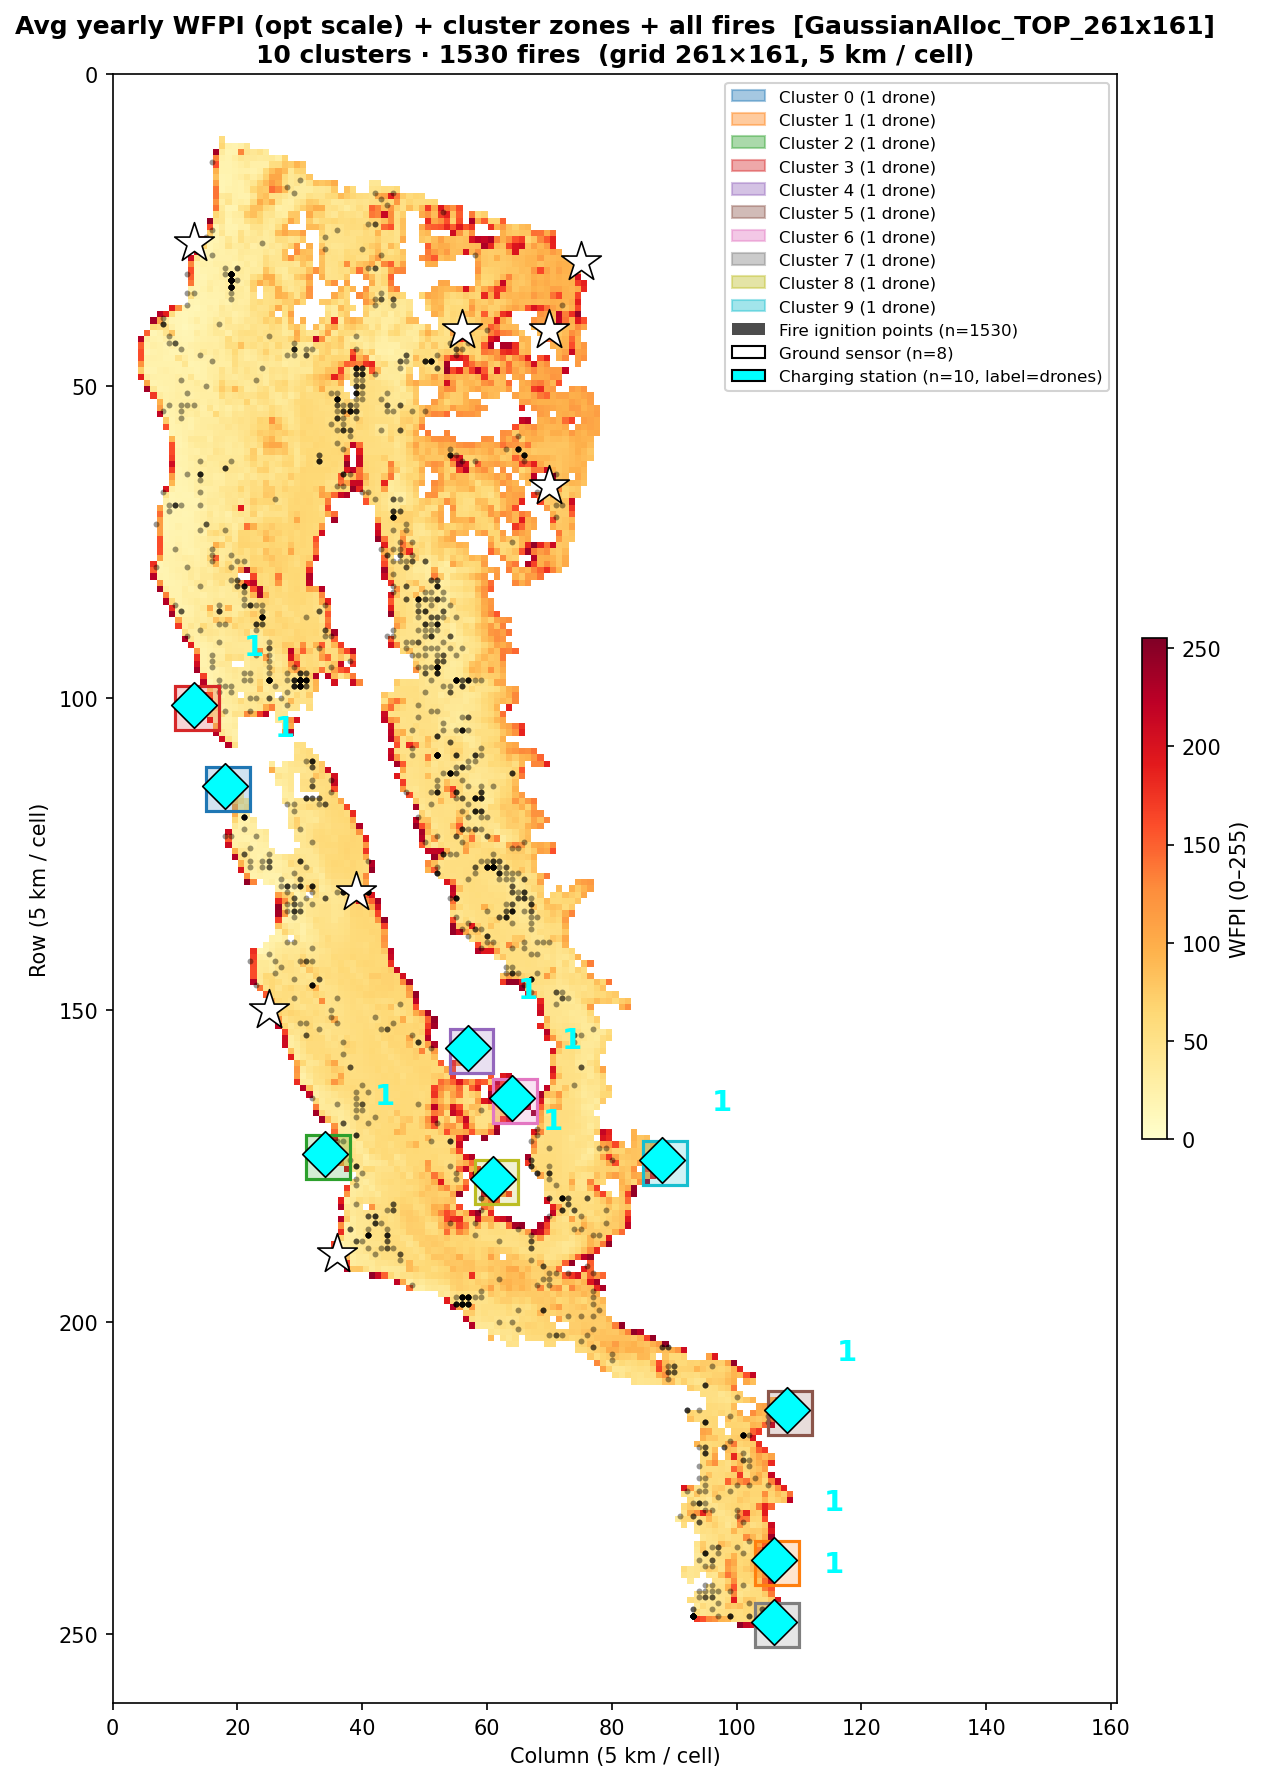
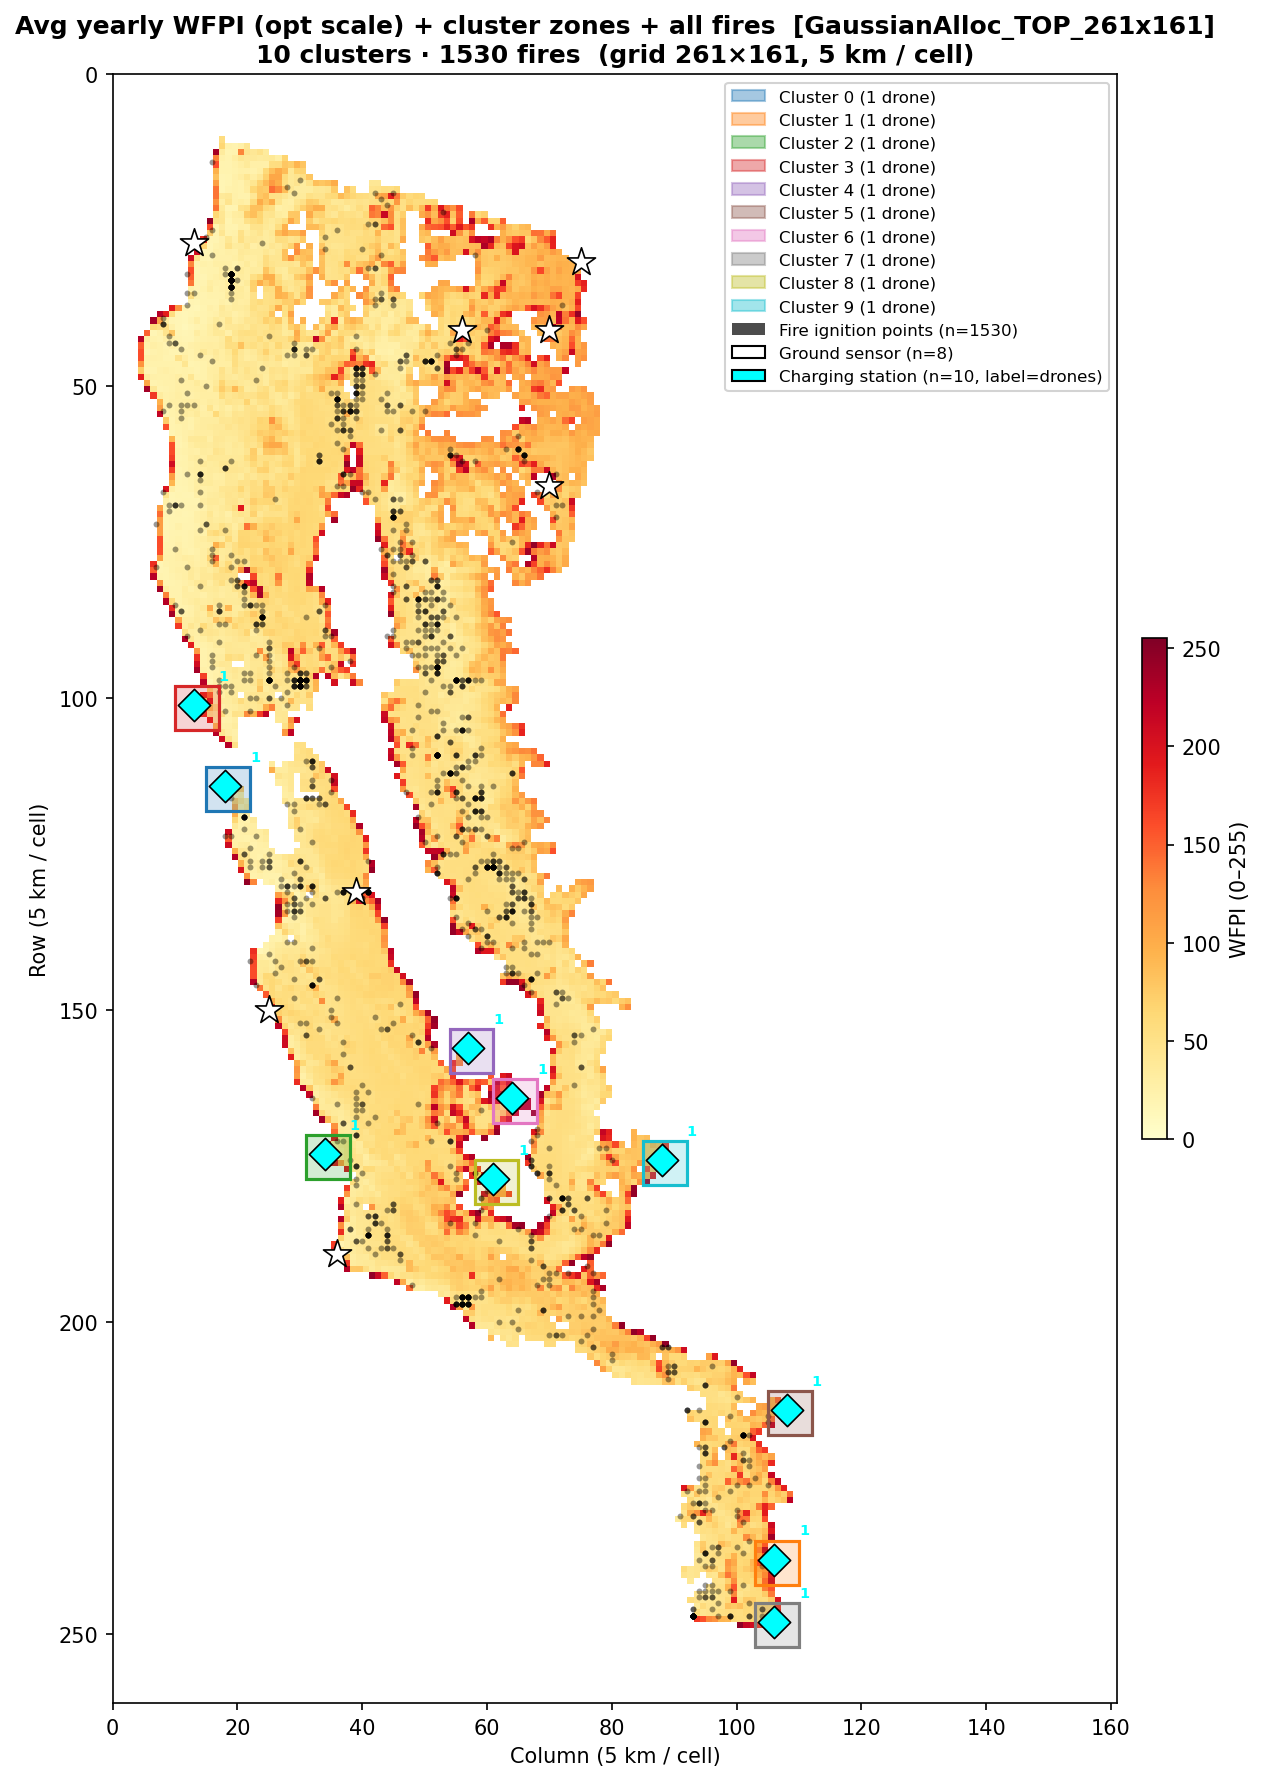
Halve sensor/station marker sizes for cleaner plots
data scale: marker_scale 1.0 → 0.5 (s=100 stars, s=60 diamonds)
opt scale:  marker_scale 2.0 → 1.0 (back to base sizes, proportionate
            to the coarser grid resolution)

diff --git a/visualize_sensor_placement.py b/visualize_sensor_placement.py
@@ -331,7 +331,7 @@ def main():
         )
         leg = []
         add_sensors_and_stations(ax, ground_locs_data, charging_locs_data,
-                                  drones_per_station, leg)
+                                  drones_per_station, leg, marker_scale=0.5)
         render_and_save(fig, ax, H, W,
                         PROJECT_ROOT / "california_sensor_placement.png", leg)
 
@@ -347,7 +347,7 @@ def main():
         add_cluster_boxes(ax, clusters, H, W, scale=COVERAGE_W, legend_items=leg)
         add_fires(ax, fire_rows_data, fire_cols_data, leg, s=10, alpha=0.5, color="black")
         add_sensors_and_stations(ax, ground_locs_data, charging_locs_data,
-                                  drones_per_station, leg)
+                                  drones_per_station, leg, marker_scale=0.5)
         render_and_save(fig, ax, H, W,
                         PROJECT_ROOT / "california_sensor_clusters.png", leg)
 
@@ -368,7 +368,7 @@ def main():
         )
         leg = []
         add_sensors_and_stations(ax, ground_locs_opt, charging_locs_opt,
-                                  drones_per_station, leg, marker_scale=2.0)
+                                  drones_per_station, leg, marker_scale=1.0)
         render_and_save(fig, ax, rH, rW,
                         PROJECT_ROOT / "california_sensor_placement_opt.png", leg)
 
@@ -384,7 +384,7 @@ def main():
         add_cluster_boxes(ax, clusters, rH, rW, scale=1, legend_items=leg)
         add_fires(ax, fire_rows_opt, fire_cols_opt, leg, s=8, alpha=0.40)
         add_sensors_and_stations(ax, ground_locs_opt, charging_locs_opt,
-                                  drones_per_station, leg, marker_scale=2.0)
+                                  drones_per_station, leg, marker_scale=1.0)
         render_and_save(fig, ax, rH, rW,
                         PROJECT_ROOT / "california_sensor_clusters_opt.png", leg)
 
